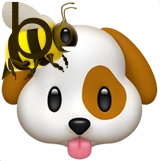
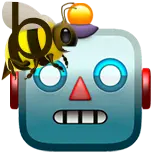
robot image now for pronoun 'it'

diff --git a/Content/assets/Image.tsx b/Content/assets/Image.tsx
@@ -1,7 +1,5 @@
 import {Image, View, StyleSheet} from 'react-native';
 
-// TODO . make plural 'chairs' ...
-
 const NewImage = ({
   src,
   resizeMode,
@@ -15,6 +13,9 @@ const NewImage = ({
   switch (src) {
     case 'dog_face_active':
       url = require('./dog_face_active.webp');
+      break;
+    case 'max_id':
+      url = require('./max_id.webp');
       break;
     case 'slightly_smiling-face':
     case 'i':

diff --git a/Content/components/Intro.tsx b/Content/components/Intro.tsx
@@ -139,7 +139,7 @@ export function Intro({onPress}: IntroProps) {
             <Image src="dog_face_active" resizeMode="contain" />
           </View>
           <View style={styles.img0}>
-            <Image src="its" resizeMode="contain" />
+            <Image src="max_id" resizeMode="contain" />
           </View>
         </View>
       </View>
